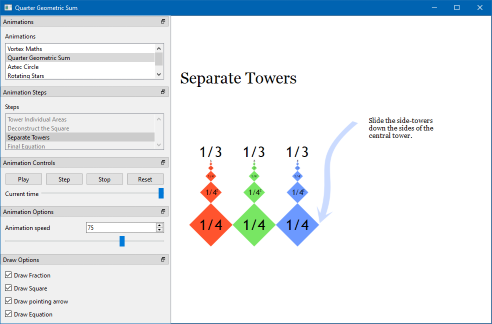
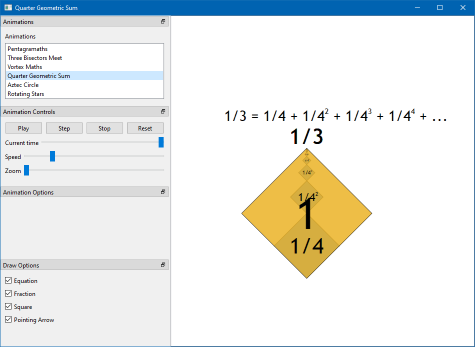
Updated readme and screenshots

diff --git a/Readme.md b/Readme.md
@@ -18,7 +18,7 @@ point. That other point is called their origin. Such relative point
 move when their origin moves. This allows to create a hierarchy of
 points and complex animations.
 
-The module provide ready-made simple animation formula, for example
+The module provide ready-made simple animation formulas, for example
 to move a point or rotate it around another point.
 
 In addition to the geometry, the module manages what gets drawn. Each
@@ -58,3 +58,15 @@ Based on this [Mathologer video](https://www.youtube.com/watch?v=SOBz-aFOH2I)
 Based on this [Mathologer video](https://www.youtube.com/watch?v=6ZrO90AI0c8&t=7s)
 
 ![Vortex Maths](https://github.com/pierrebai/MathAnim/blob/main/examples/vortex_maths/Vortext-Maths.png "Vortex Maths")
+
+### Three Bisectors
+
+Base on this [Mathologer video](https://www.youtube.com/watch?v=XOS73mTomPY)
+
+![Three Bisectors](https://github.com/pierrebai/MathAnim/blob/main/examples/three_bisectors/Three-Bisectors.png "Three Bisectors")
+
+### Pentagramaths
+
+Base on this [Mathologer video](https://www.youtube.com/watch?v=w4AUOgfW9NI)
+
+![Pentagramaths](https://github.com/pierrebai/MathAnim/blob/main/examples/pentagramaths/Pentagramaths.png "Pentagramaths")
